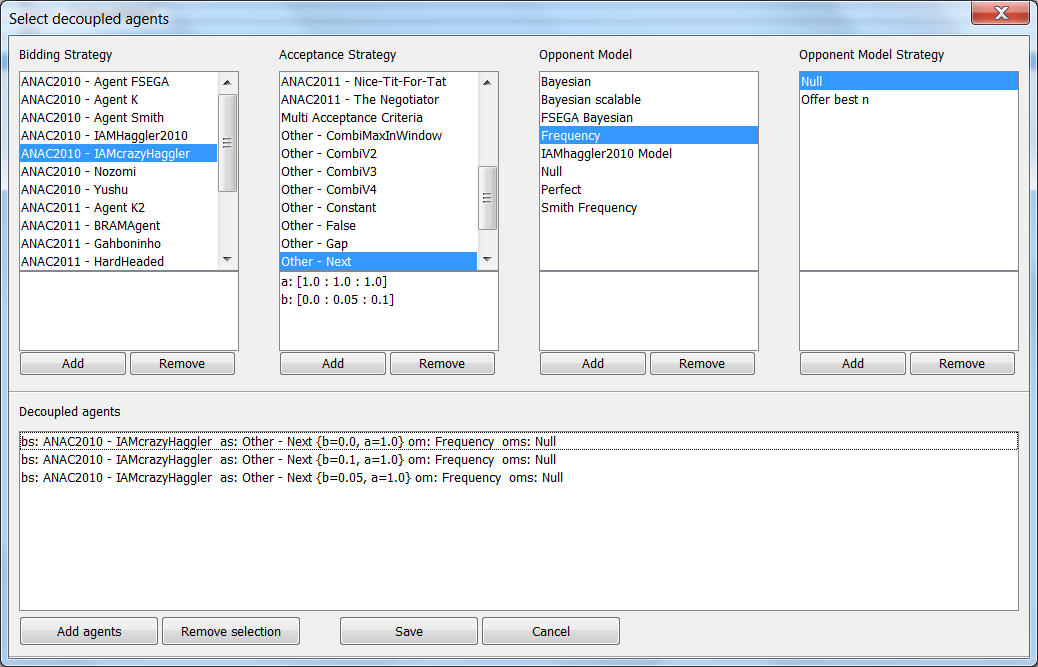
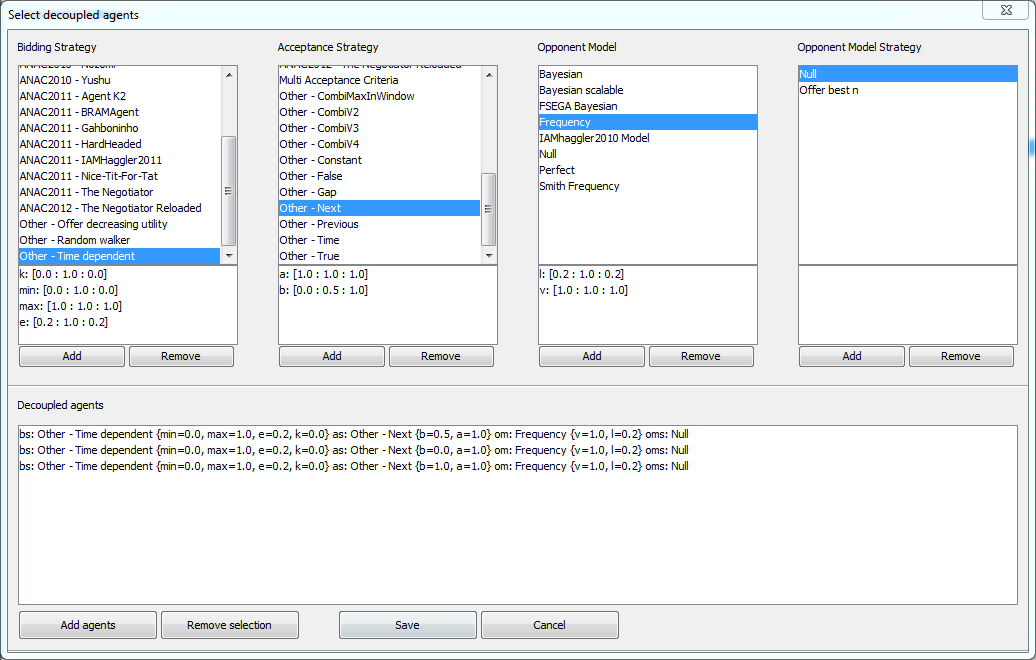
Creation of BOA Agent aan gepaast (7.3 en 7.4)

diff --git a/NegotiatorGUI/doc/userguide.tex b/NegotiatorGUI/doc/userguide.tex
@@ -621,7 +621,7 @@ The BOA framework GUI, visualized in Figure~\ref{fig:decoupledGUI}, can be opene
 	\label{fig:decoupledGUI}
 \end{figure}
 
-Our goal in this section is to create three variants of \textit{IAMCrazyHaggler}. First, we select the bidding strategy \textit{ANAC2010 - IAMcrazyHaggler} under the heading \textit{Bidding Strategy}. Next, we select the acceptance condition \textit{Other - Next}. If we hold our mouse still for a few seconds on this element, we see that it assumes that a parameter $a$ and $b$ are given. In our case we want to create three variants: $a=1, b=0$, $a=1, b=0.05$, and $a=1, b=0.10$. Both parameters can be added by using the $Add$ button under the list of acceptance strategies. Adding the parameter $b$ is visualized in figure~\ref{fig:decoupledparam}. Following, we select the \textit{Frequency} opponent model. Next, we select the \textit{null} opponent model strategy. This component requires no parameters. Finally, we select ``add agents'' to create the agents and ``save'' to store them for usage in the negotiation.
+Our goal in this section is to create three variants of \textit{SimpleBOAagent}. First, we select the bidding strategy \textit{Other - Time Dependent} under the heading \textit{Bidding Strategy}.  If we hold our mouse still for a few seconds on this element, we see that it assumes that a parameter $e$, $k$, $max$ and $min$ are given, we will set these value to 0.2, 0, 1, 0 respectively. Parameters can be added by using the $Add$ button under each of the components (e.g. Bidding Strategy). Adding the parameter $e$ is visualized in figure~\ref{fig:decoupledparam}. Next, we select the acceptance condition \textit{Other - Next}, which expects the parameters $a$ and $b$. In our case we want to create three variants: $a=1, b=0$, $a=1, b=0.05$, and $a=1, b=0.10$. Following, we select the \textit{Frequency} opponent model. Next, we select the \textit{null} opponent model strategy. This component requires no parameters. Finally, we select ``add agents'' to create the agents and ``save'' to store them for usage in the negotiation.
 
 \begin{figure}[h!] 
 	\center
@@ -630,126 +630,161 @@ Our goal in this section is to create three variants of \textit{IAMCrazyHaggler}
 	\label{fig:decoupledparam}
 \end{figure}
 
-To summarize: we created three variants of \textit{IAMCrazyHaggler}. All variants use a frequency opponent model, and choose a random bid out of the bids that are being considered in a round. The variants differ in when they accept, variants with a higher value for $a$ and $b$ will in general accept earlier.
+To summarize: we created three variants of \textit{SimpleBOAagent}. All variants use a frequency opponent model, and choose a random bid out of the bids that are being considered in a round. The variants differ in when they accept, variants with a higher value for $a$ and $b$ will in general accept earlier.
 
 \subsection{Creating New Components}
 This section discusses how to create new components for the BOA framework. The next section discusses how these components can be added to the BOA framework.
 
 \subsubsection{Creating a Bidding Strategy}
-The code below is used to create the bidding strategy of \textit{IAMCrazyHaggler}. The first step in creating a component, is creating a new class which extends the class \textit{OfferingStrategy}. The \textit{OfferingStrategy} class is an abstract class, which forces to implement the \textit{init}, \textit{determineOpeningBid} and \textit{determineNextBid} methods.
+The code below is for the abstract class \textit{OfferingStrategy} which every bidding strategy needs to extend.  This class makes it compatible with the BOA framework, having it implement a \textit{init}, \textit{determineOpeningBid} and \textit{determineNextBid} methods.
 
 The reference to \textit{negotiationsession} is important, as this object stores all information about the current match, including all bids done by the opponent and the agent itself.
 
-Next, we implement \textit{determineOpeningBid}, which should specify the first bid done by the agent. The final step is to implement \textit{determineNextBid}. In this case, a random bid is generated with a utility at least equal to the value of the variable \textit{breakoff}.
+The method \textit{determineOpeningBid} determines what the opening bid of the agent should be and \textit{determineNextBid} determines the counter bid the agent should offer. The variable nextBid is what the agent is planning to offer as counter bid.  This is important because there are some acceptance conditions that compares the nextBid with the offered bid of the opponent.
 
 An approach often taken by more complex agents, is to first generate all possible bids. While this can take a long time, it allows to efficiently look up bids during the negotiation. The \textit{SortedOutcomeSpace} can be used to efficiently generate and access all possible bids during the negotiation. For an example of how to use this class we refer to the class \textit{TimeDependent\_Offering}. This class also specifies how parameters can be added.
-
+Below is the code for the abstract class BiddingStrategy which your offering strategy should extended.
 
 \begin{lstlisting}
-public class IAMCrazyHaggler_Offering extends OfferingStrategy {
-	private double breakoff = 0.9;
-	private UtilitySpace space;
+public abstract class OfferingStrategy { 
 
-	public IAMCrazyHaggler_Offering() { }
+	protected BidDetails nextBid;
 
-	public void init(NegotiationSession negoSession, OpponentModel model,
-				OMStrategy oms, HashMap<String, Double> parameters)
-				throws Exception {
-		this.negotiationSession = negoSession;
-		this.space = negotiationSession.getUtilitySpace();
-		this.opponentModel = model;
-		this.omStrategy = oms;
-		if (negoSession.getDiscountFactor() == 0)
-			breakoff = 0.95;
+	public void init(NegotiationSession negotiationSession, OpponentModel
+						 opponentModel, OMStrategy omStrategy, 
+							HashMap<String, Double> parameters)
+								 throws Exception {
+
+		this.negotiationSession = negotiationSession;
+		this.opponentModel = opponentModel;
+		this.omStrategy = omStrategy;
 	}
+	
+	public abstract BidDetails determineOpeningBid();
 
-	public BidDetails determineOpeningBid() { return determineNextBid(); }
-
-	public BidDetails determineNextBid() {
-		Bid bid = null;
-		do {
- 			bid = space.getDomain().getRandomBid();
-		} while (space.getUtility(bid) <= breakoff);
-		nextBid = new BidDetails(bid, space.getUtility(bid));
-		} return nextBid;
+	public abstract BidDetails determineNextBid();	
+	
+	public BidDetails getNextBid(){
+		return nextBid;
+	}
+	
+	public void setNextBid(BidDetails counterBid) {
+		nextBid = counterBid;
+	}
+	
+	public SharedAgentState getHelper() {
+		return helper;
 	}
 }
 \end{lstlisting}
 
 
 \subsubsection{Creating an Acceptance Condition}
-This section discusses the implementation of $\textbf{AC}_{next}$ visualized in the code below. Identical to the bidding strategy, an new class has to be created which extends the \textit{AcceptanceStrategy} class. This abstract class forces the implementation of two methods: \textit{init} and \textit{determineAcceptability}.
+This section discusses the creation of an acceptance condition.  Similar to the bidding strategy the acceptance conditions needs to extend the abstract class \textit{AcceptanceStrategy} (see code below).  By extend this class the acceptance conditions should implement\textit{init} and \textit{determineAcceptability}.
 
-In the \textit{init} method we make a reference to the opponent's bidding history for easy access. The framework keeps track of both the agent's and opponent's bidding history. The last bid made by our agent is stored in a special variable \textit{nextBid}. In contrast to the bidding strategy discussed in the previous section, this component expects a parameter $a$ and $b$.
-
-Finally, we have to specify when to accept and opponent bid by implementing \textit{determineAcceptability}. The implementation shown accepts an opponent bid when the utility of the bid is higher than a linear function of the bid under consideration for offering (\textit{nextBid}).
-
-This acceptance condition will only accepted or rejected a bid, however there are some scenarios in which it is rational to end the negotiation prematurely (e.g. when working with reservation values).  This can be done by returning the action breakoff (\textit{Actions.Break}).
+The \textit{determineAcceptability} methods determines the acceptability of the offer the opponent has presented.  This method can return three actions; accept (the bid is acceptable), reject (the bid is not acceptable) and break-off (the bid is not acceptable and end the negotiation).  In some scenarios it is rational to return break-off (end the negotiation prematurely) for example if one is working with reservation values.
 
 \begin{lstlisting}
-public class AC_Next extends AcceptanceStrategy {
-	private double a = 1.0;
-	private double b = 0.0;
-	BidHistory oppHistory;
+public abstract class  AcceptanceStrategy {
 
-	public AC_Next() { }
-
-	public void init(NegotiationSession negotiationSession,
-				OfferingStrategy offeringStrat, HashMap<String, 
-				Double> parameters)
-				throws Exception {
+	public void init(NegotiationSession negotiationSession, OfferingStrategy 
+						offeringStrategy, HashMap<String, Double> parameters)
+							throws Exception {
+	
 		this.negotiationSession = negotiationSession;
-		this.offeringStrategy = offeringStrat;
-		this.oppHistory =  negotiationSession.getOpponentBidHistory();
-
-		if (parameters.get("a") != null || parameters.get("b") !=null) {
-			a = parameters.get("a");
-			b = parameters.get("b");
-		}
+		this.offeringStrategy = offeringStrategy;
 	}
-
-	public Actions determineAcceptability() {
-		double nextMyBidUtil = offeringStrategy.getNextBid().
-										getMyUndiscountedUtil();
-		double lastOppUtil = oppHistory.getLastBidDetails().
-										getMyUndiscountedUtil();
-		if (a * lastOppUtil + b >= nextMyBidUtil) {
-			return Actions.Accept;
-		}
-		return Actions.Reject;
+	
+	public String printParameters(){
+		return"";
 	}
+	
+	public abstract Actions determineAcceptability();
 }
 \end{lstlisting}
 
 \subsubsection{Creating an Opponent Model}
-This section discusses how to implement an opponent model. An opponent model in the BOA framework should extend the \textit{OpponentModel} class. This class enforces that at least \textit{init}, \textit{updateModel}, \textit{getBidEvaluation} and \textit{getDiscountedBidEvaluation} are implemented. The  \textit{updateModel} is given a bid which is then used to update the opponent model.  This method should be called when a new bid is received from the opponent. The methods \textit{getBidEvaluation} and \textit{getDiscountedBidEvaluation} are used to obtain the estimated (discounted) utility of the opponent for a particular bid based on the opponent model. Since opponent models are relatively more complex to implement in comparison to the other components, we do not present an example but instead refer to the class \textit{IAMhaggler2010 Model}.\\
-
-The opponent model also comprise of a sub-component, the \textit{Opponent Model Strategy}. This component can be seen as the part of the bidding strategy which determines which bid the opponent model should return when presented with alternatives and when the opponent model may be updated.  Visualized below is the implementation of the null opponent model strategy. The null strategy simply selects a random bid. A opponent model strategy class should extend the \textit{OMStrategy} class and implement \textit{init}, \textit{canUpdateOM} and \textit{getBid}.
+This section discusses how to create an opponent model. An opponent model in the BOA framework should extend the \textit{OpponentModel} class (see code below). This class enforces that at least \textit{init}, \textit{updateModel}, \textit{getBidEvaluation} and \textit{getDiscountedBidEvaluation} are implemented. The \textit{updateModel} is given a bid which is then used to update the opponent model.  This method should be called when a new bid is received from the opponent. The methods \textit{getBidEvaluation} and \textit{getDiscountedBidEvaluation} are used to obtain the estimated (discounted) utility of the opponent for a particular bid based on the opponent model. Since opponent models are relatively more complex to implement in comparison to the other components, we do not present an example but instead refer to the class \textit{IAMhaggler2010 Model}.\\
 
 \begin{lstlisting}
-public class NullStrategy extends OMStrategy {
-
-	private Random rand;
+public abstract class OpponentModel {
 	
-	public NullStrategy() {}
+	protected NegotiationSession negotiationSession;
+	protected UtilitySpace opponentUtilitySpace;
 	
-	public void init(NegotiationSession negotiationSession, OpponentModel model,
-				HashMap<String, Double> parameters) throws Exception {
-		rand = new Random();
+	public void init(NegotiationSession domainKnow, HashMap<String, Double> parameters) throws Exception {
+		negotiationSession = domainKnow;
+		opponentUtilitySpace = new UtilitySpace(domainKnow.getUtilitySpace());
+	}
+	
+	public void init(NegotiationSession domainKnow) {
+		negotiationSession = domainKnow;
+		opponentUtilitySpace = new UtilitySpace(domainKnow.getUtilitySpace());
 	}
 
-	@Override
-	public boolean canUpdateOM() {
-		return true;
+	public abstract void updateModel(Bid opponentBid);
+
+	public double getBidEvaluation(Bid b){
+		try {
+			return opponentUtilitySpace.getUtility(b);
+		} catch (Exception e) {
+			e.printStackTrace();
+		}
+		return -1;
+	}
+	
+	public double getDiscountedBidEvaluation(Bid b, double time){
+		return opponentUtilitySpace.getUtilityWithDiscount(b, time);
+	}
+	
+	public UtilitySpace getOpponentUtilitySpace(){
+		return opponentUtilitySpace;
 	}
 
-	public BidDetails getBid(List<BidDetails> allBids) {
-		return allBids.get(rand.nextInt(allBids.size()));
-	}
+	public void setOpponentUtilitySpace(BilateralAtomicNegotiationSession fNegotiation) { }
 }
 \end{lstlisting}
 
-\subsection{Adding Components to the Repository}
+
+The opponent model also comprise of a sub-component, the \textit{Opponent Model Strategy}. This component interacts closely with the bidding strategy, determining which bid the opponent model should return when presented with alternatives and when the opponent model may be updated. A opponent model strategy class should extend the \textit{OMStrategy} (see below) class and implement \textit{init}, \textit{canUpdateOM} and \textit{getBid}.
+
+\begin{lstlisting}
+package negotiator.boaframework;
+public abstract class OMStrategy {
+	public void init(NegotiationSession negotiationSession, OpponentModel model, HashMap<String, Double> parameters) throws Exception {
+		this.negotiationSession = negotiationSession;
+		this.model = model;
+	}
+	
+	public void init(NegotiationSession negotiationSession, OpponentModel model) {
+		this.negotiationSession = negotiationSession;
+		this.model = model;
+	}
+	
+	public abstract BidDetails getBid(List<BidDetails> bidsInRange);
+	
+	public BidDetails getBid(OutcomeSpace space, Range range) {
+		List<BidDetails> bids = space.getBidsinRange(range);
+		if (bids.size() == 0) {
+			range.increaseUpperbound(RANGE_INCREMENT);
+			if (range.getUpperbound() < 1.1) {
+				return getBid(space, range);
+			} else {
+				negotiationSession.setOutcomeSpace(space);
+				return negotiationSession.getMaxBidinDomain();
+			}
+		}
+		return getBid(bids);
+	}
+	
+	public abstract boolean canUpdateOM();
+}
+\end{lstlisting}
+
+\subsection{Creating A BOA Agent}
+There are two ways of creating a BOA agent; One is to use the component repository and select the components from the BOA framework GUI.  The other way us to create an agent class and add it to the agent repository.
+
+\subsubsection{Adding Components to the Repository}
 In the previous section we discussed how to create the components. To use the components, we still need to add them to the \textit{BOA repository}. The \textit{BOA repository} is located in the main directory of \Genius ~and its structure is similar to the small repository shown below. There are four main categories corresponding to the component types. Each element in a category has to specify a description and a classpath. Optionally, a tooltip element can be specified to discuss which parameters are expected.
 
 \begin{lstlisting}
@@ -771,6 +806,29 @@ In the previous section we discussed how to create the components. To use the co
   <omstrategy description="Null" classPath="NullStrategy"/>
   </omstrategies>
 </repository>
+\end{lstlisting}
+
+\subsubsection{Creating BOA Agent without Interface}
+To create a BOA agent without using the GUI you have to create a class that extends BOA agent.  This allows you to still make use of the framework however not have to place it in the component repository.  Below is an example of an agent class that uses the BOA framework.  This class is very simple, where in agent setup the components need to be defined and initialized.
+
+\begin{lstlisting}
+public class SimpleBOAagent extends BOAagent{
+
+	@Override
+	public void agentSetup() {
+		OpponentModel om = new FrequencyModel(negotiationSession, 0.2, 1);
+		OMStrategy oms = new NullStrategy(negotiationSession);
+		OfferingStrategy offering  = new TimeDependent_Offering(negotiationSession, om, oms, 0.2, 0, 1, 0); //Bouwlware agent strategy
+		AcceptanceStrategy ac = new AC_Next(negotiationSession, offering, 1, 0);
+		setDecoupledComponents(ac, offering, om, oms);		
+	}
+
+	@Override
+	public String getName() {
+		return "SimpleBOAagent";
+	}
+
+}
 \end{lstlisting}
 
 \subsection{Multi-Acceptance Criteria (MAC)}
